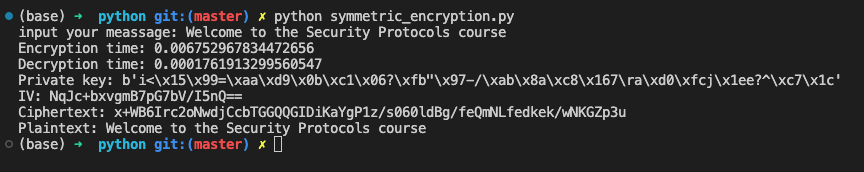
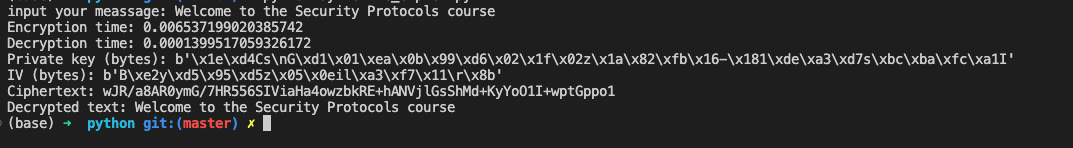
[lab2] update answer_sheet

diff --git a/lab2/answer_sheet.tex b/lab2/answer_sheet.tex
@@ -16,26 +16,41 @@
 
 \section*{Exercise 1}
 %
-I chose the CBC mode of AES symmetic block cipher because its simplicity - one of
+I chose the CBC mode of AES symmetic block cipher because its simplicity --- one of
 classic modes. But in terms of authentication, we should consider modern modes such as
-CCM, EAX, GCM, SIV, and OCB.
+CCM, EAX, GCM, SIV, and OCB.\\
+
+Plaintext: \textbf{Welcome to the Security Protocols course}\\
+Ciphertext (base64):\\
+\textbf{wJR/a8AR0ymG/7HR556SIViaHa4owzbkRE+hANVjlGsShMd+KyYoO1I+wptGppo1}
 
 \begin{figure}[hpt]
     \centering
-    \includegraphics[width=140mm, height=60mm]{aes.png}
+    \includegraphics[width=140mm, height=30mm]{aes.png}
     \caption{AES-256-CBC-mode encrytion-decrytion time}
     \label{fig:aes-cbc}
 \end{figure}
 
-As you can see, the decryption takes a shorter time than the encryption process,
-faster than 60 times in this case.
+As you can see in the figure\ref*{fig:aes-cbc}, the decryption takes a shorter time than
+the encryption process, faster than 60 times in this case. In the above case, my script
+generated a random secret key and an initial vector.\\
+
+\begin{figure}[hpt]
+    \centering
+    \includegraphics[width=140mm, height=30mm]{aes_chosen_key.png}
+    \caption{AES-256-CBC-mode with chosen a private key and an initial vector}
+    \label{fig:aes-cbc-chosen}
+\end{figure}
+
+Without generating IV and private key, the encryption-decryption process took a shorter
+period to finish.
 
 \section*{Exercise 2}
 %
 \subsection*{RSA}
 %
-It worth noting that the process of decryption/signing is much slower than those of
-encryption/verification (signing and verification used in digital signatures).
+It worth noting that the process of decryption-signing is much slower than those of
+encryption-verification (signing and verification used in digital signatures).
 In this exercise, I used PKCS#1 OAEp is an asymmetric cipher based on RSA and the
 OAEP padding, detailed description \href{https://tools.ietf.org/html/rfc8017}{here}.
 
@@ -50,7 +65,7 @@ OAEP padding, detailed description \href{https://tools.ietf.org/html/rfc8017}{he
 %
 \begin{figure}[hpt]
     \centering
-    \includegraphics[width=140mm, height=50mm]{ec.png}
+    \includegraphics[width=140mm, height=50mm]{ecc.png}
     \caption{EC-based encrytion-decrytion time}
     \label{fig:ec}
 \end{figure}
